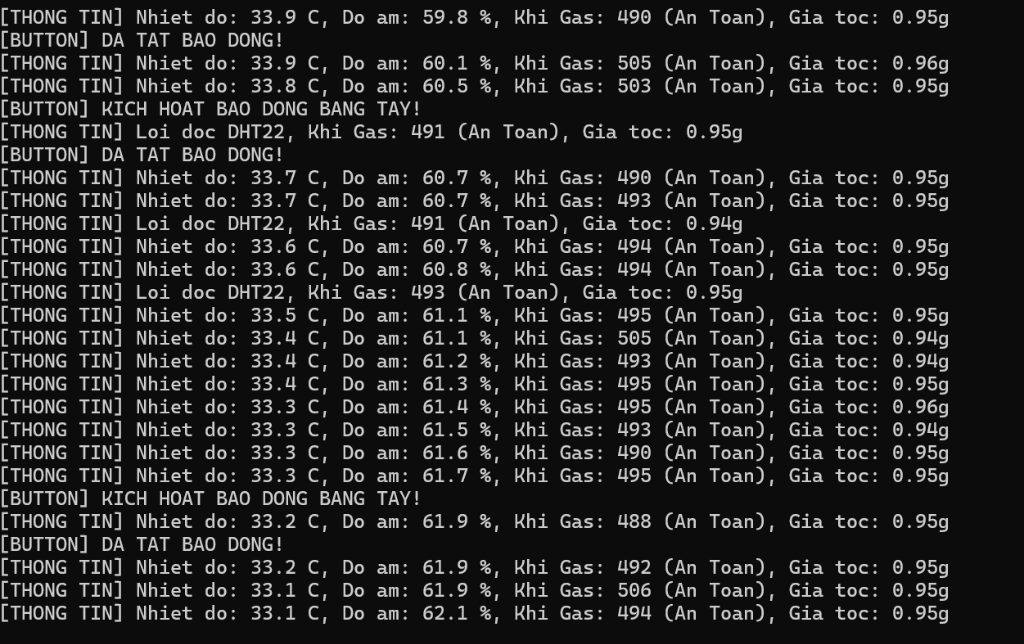
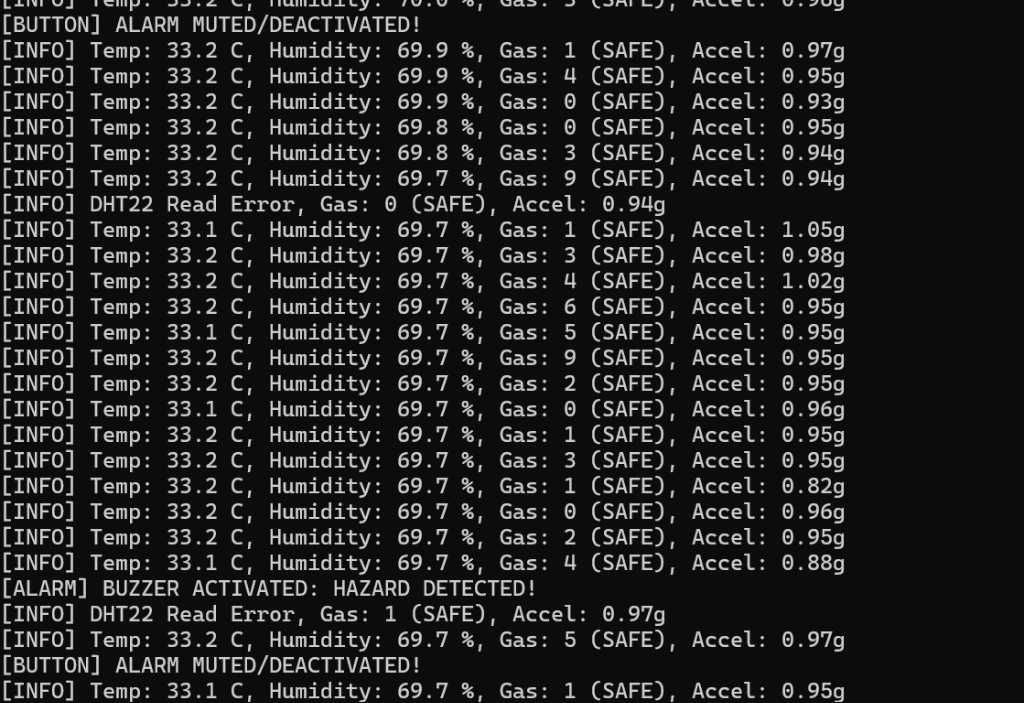
docs: update terminal output screenshot with English logs

diff --git a/README.md b/README.md
@@ -7,7 +7,7 @@ Hệ thống được thiết kế chuẩn cấu trúc FreeRTOS (Task & Queue Ma
 - **Giám sát Môi trường (DHT22):** Theo dõi Nhiệt độ và Độ ẩm.
 - **Cảnh báo Cháy / Khí Gas (MQ2):** Đọc nồng độ Gas qua bộ chuyển đổi ADC (Analog-to-Digital). Tự động hú còi khi vượt ngưỡng an toàn (Mặc định: 2000). Tích hợp cảnh báo cháy nếu Nhiệt độ > 60°C.
 - **Cảnh báo Rung chấn (MPU6050):** Theo dõi gia tốc kế qua chuẩn giao tiếp I2C. Báo động tức thời khi phát hiện rung lắc mạnh (Magnitude > 1.5g).
-- **Hệ thống Cảnh báo Thủ công (Button & Buzzer):** Sử dụng Nút bấm có tích hợp chống nhiễu (Debounce 1 giây) để chủ động bật/tắt còi báo động.
+- **Hệ thống Cảnh báo Thủ công (Button & Buzzer):** Sử dụng Nút bấm có tích hợp chống nhiễu (Debounce 500ms) để chủ động bật/tắt còi báo động.
 
 ## 🔌 Sơ đồ đấu nối (Pinout)
 | Thiết bị | Chân thiết bị | Chân ESP32-C3 | Ghi chú |
